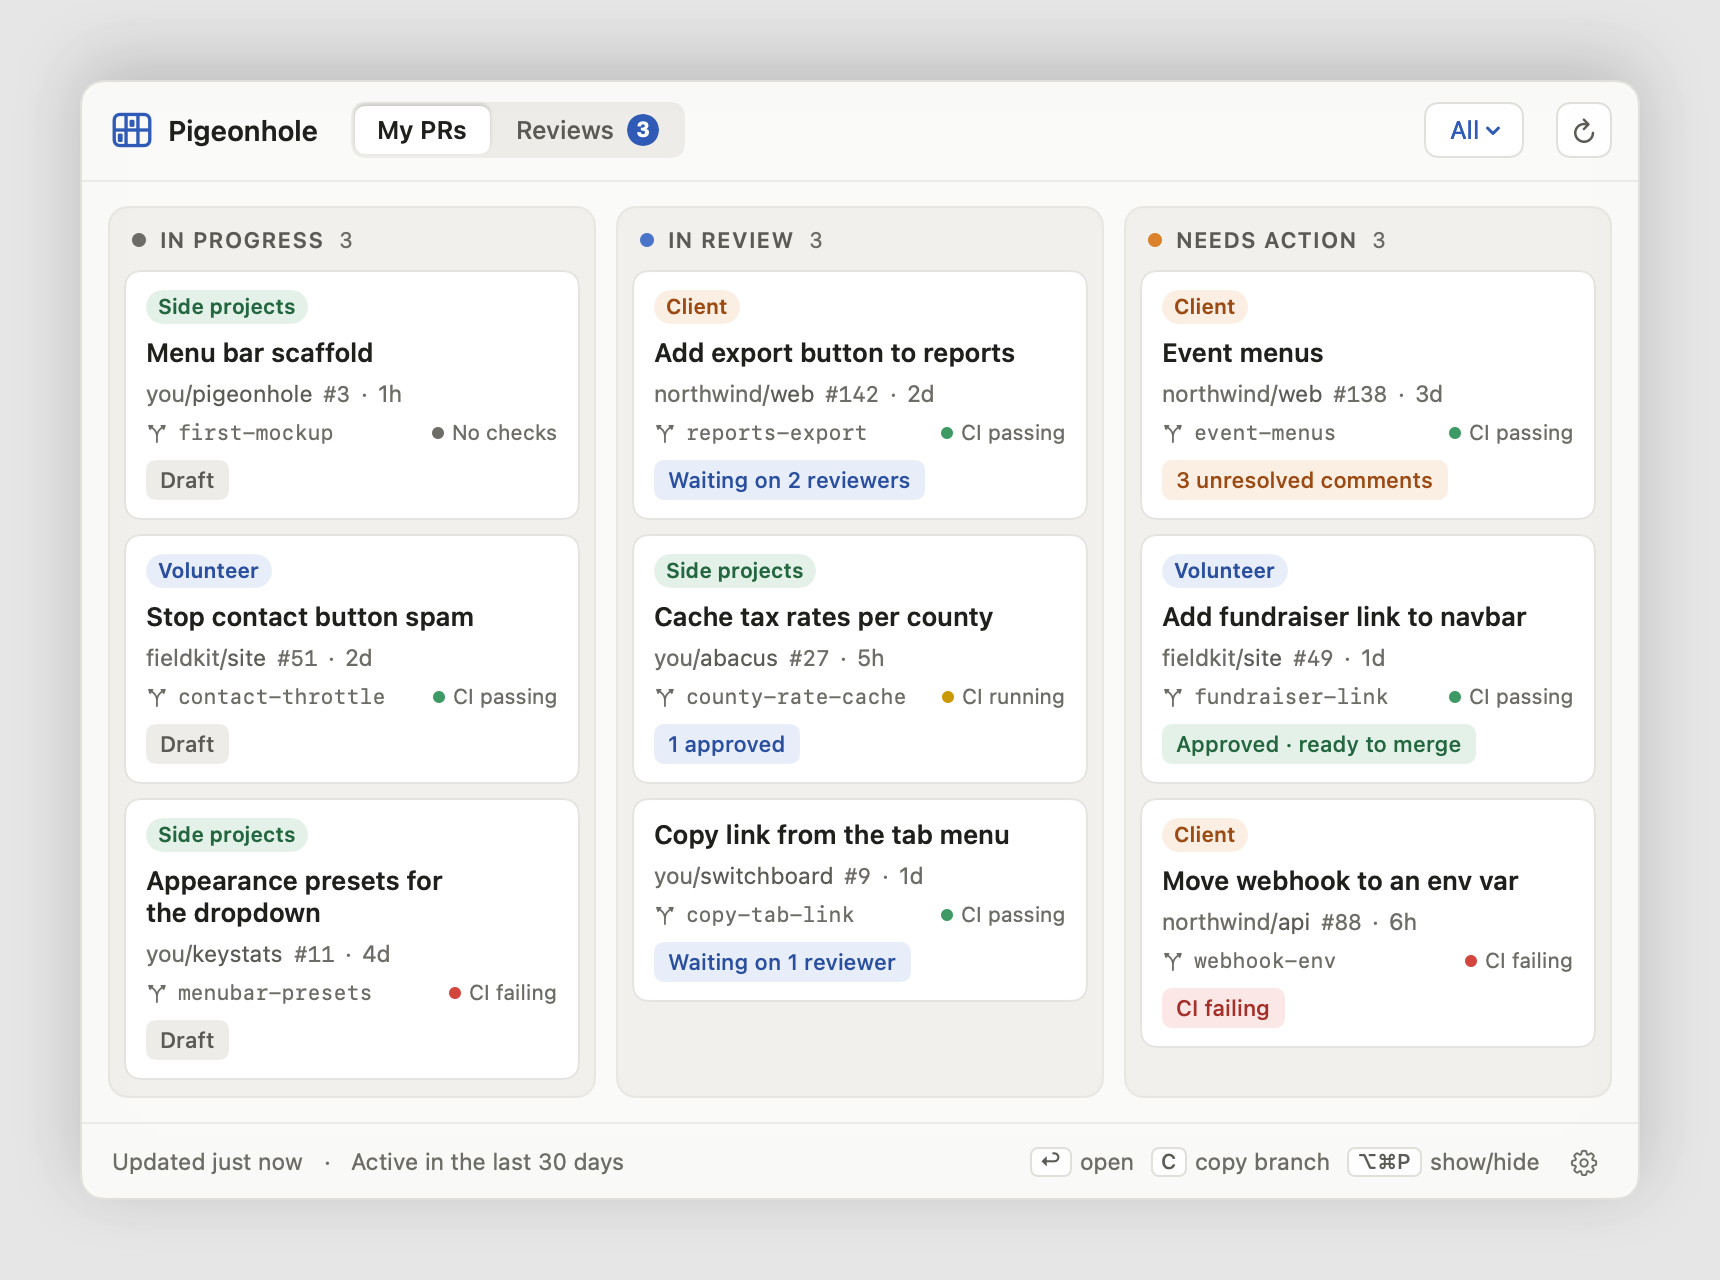
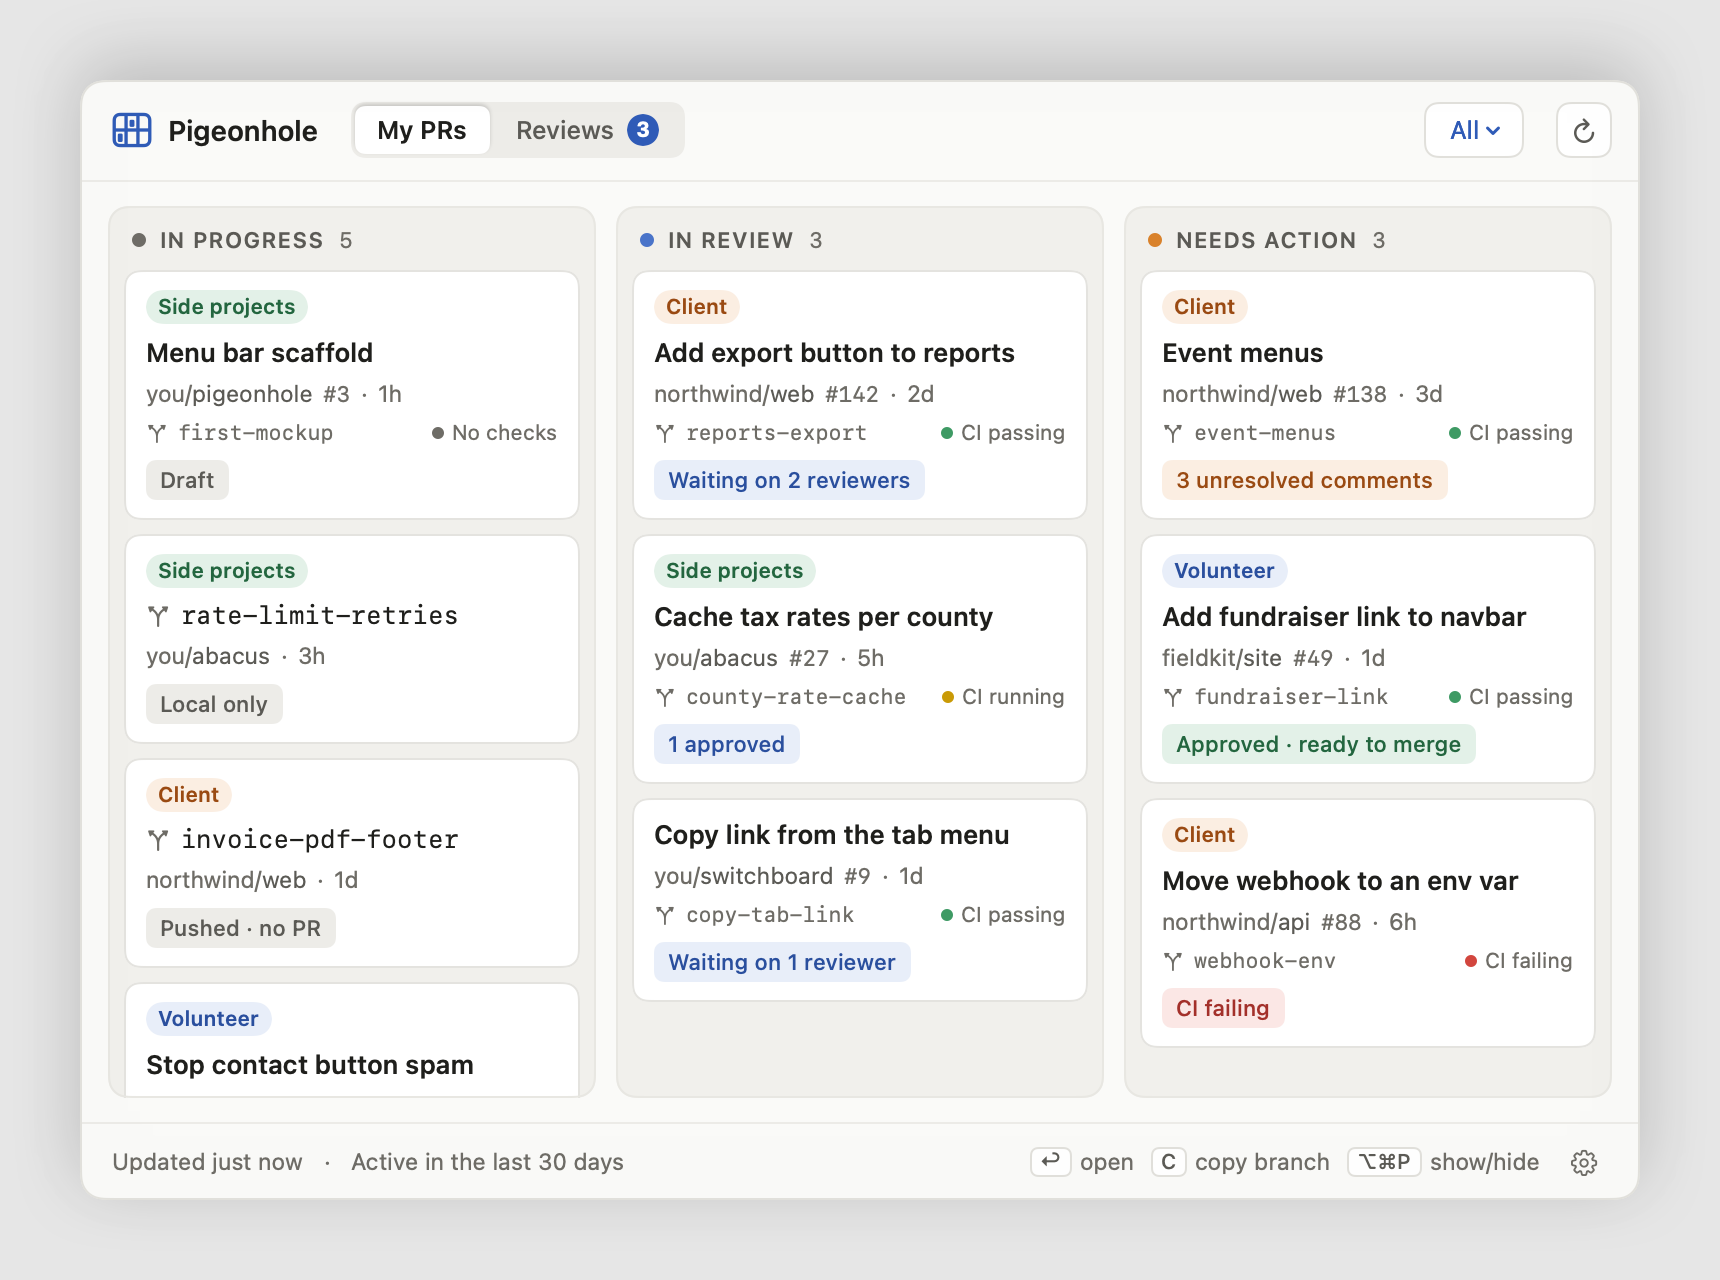
docs: document branch cards, hiding and refocus, and refresh screenshots

Changed region(s): [[0.0616, 0.4375, 0.339, 0.8438], [0.2465, 0.5312, 0.3081, 0.5625]]

diff --git a/README.md b/README.md
@@ -8,7 +8,8 @@ the menu bar.
 
 ## What it does
 
-- **Three slots.** In progress holds your drafts. In review holds PRs waiting
+- **Three slots.** In progress holds your drafts, plus branches in your local
+  clones that have no PR yet, pushed or not. In review holds PRs waiting
   on reviewers. Needs action holds anything waiting on you: changes
   requested, unresolved comments, failing CI, or approved and ready to merge.
 - **Reviews tab** for PRs where your review was requested.
@@ -17,12 +18,17 @@ the menu bar.
 - **Tags** for repos you care about, with a name and color, shown on every
   card. Filter by a tag or by Untagged.
 - **Click a card** to open the PR in your browser and copy its branch name.
-  **⌥⌘P** (changeable) shows or hides the board from anywhere.
+  A pushed branch opens GitHub's compare page, ready for its PR; one that
+  isn't pushed yet opens its clone in Finder. **⌥⌘P** (changeable) shows or
+  hides the board from anywhere, and hiding it hands focus back to the app
+  you were in.
+- **Right click a card** to hide it. Hidden cards are listed in Settings,
+  where you can bring them back.
 - **Keyboard driven.** Arrow keys move between cards, Return opens one, C
   copies its branch, Tab (or 1 and 2) switches tabs, R refreshes, Escape
   closes.
-- **Activity window.** By default only PRs with activity in the last 30 days
-  show. You can pick 14, 60 or 90 days, a year, or everything.
+- **Activity window.** By default only PRs with activity in the last 30 days,
+  and branches with a commit in that time, show. You can pick 14, 60 or 90 days, a year, or everything.
 - Six themes, two light and four dark, plus six font pairs and three text
   sizes.
 
@@ -34,6 +40,15 @@ the menu bar.
   <img src="docs/screenshots/settings-appearance.png" width="49%" alt="Appearance settings with six themes and font presets">
   <img src="docs/screenshots/settings-tags.png" width="49%" alt="Tag editor with color swatches and a repo picker">
 </p>
+
+Branches come from the folders picked in Settings (by default `~/code`,
+`~/Developer`, `~/Projects`, `~/src` or `~/dev`, whichever exist), searched
+three folders deep for clones with a GitHub `origin`. A branch counts as
+yours when its newest commit's author matches the repo's `user.email`.
+Pigeonhole skips the default branch, branches whose upstream is gone, and
+any branch that has had a PR of yours, open, closed or merged. It reads with
+`git for-each-ref` and never fetches, so pushes from other machines show up
+once your clone has fetched them.
 
 It's read-only. It borrows the GitHub CLI's login, so there's no token to
 create, nothing goes in the Keychain, and one login covers every org you've
